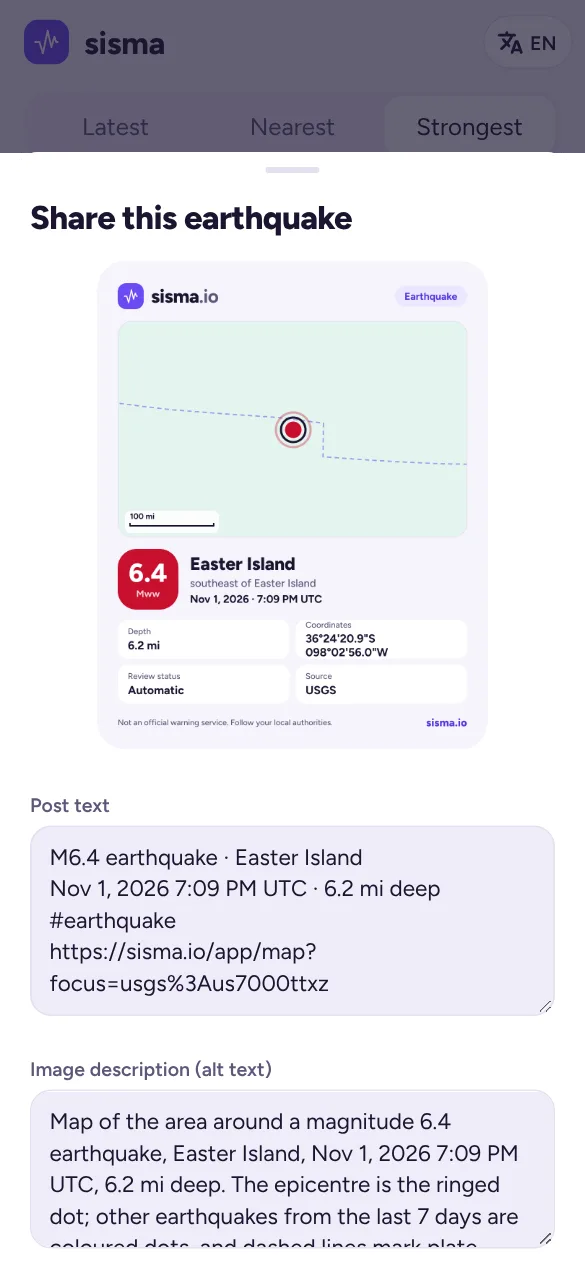
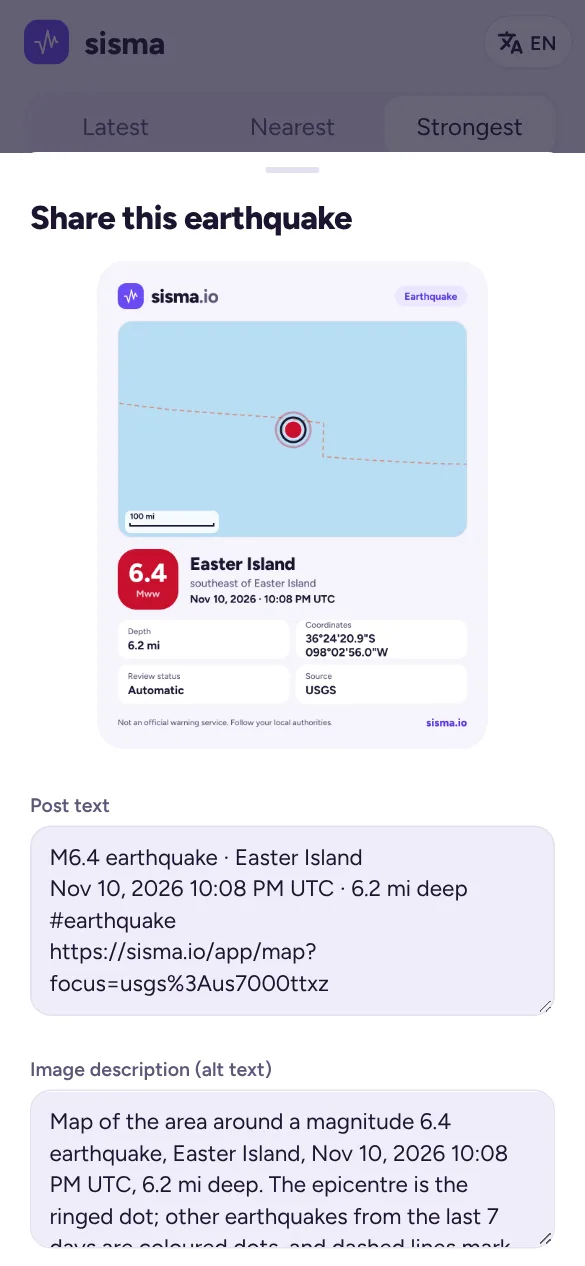
Light theme: cream land, sky-blue sea, orange-red plate lines
The light map colours (globals.css --map-*, lib/theme.ts THEME.light map*)
change to warm cream land, a soft sky-blue sea, warm grey borders and a
blue-grey graticule, with orange-red plate boundaries and a blue glow round
the globe. The 2D map, globe, Ring of Fire widget and share cards (including
Bluesky posts) follow the tokens. Pins, app colours and the dark theme are
unchanged.

Help: light screenshots of the map, globe, region view, filters and share
sheet retaken.

Claude-Session: https://claude.ai/code/session_01VVoEA6g7d5oSRS2St1KTEW

diff --git a/app/src/app/globals.css b/app/src/app/globals.css
@@ -1,5 +1,5 @@
 /* Tokens: see src/lib/theme.ts and design/SismaApp.dc.html */
-:root { --mag-ink-0:#FFFFFF; --mag-ink-1:#FFFFFF; --mag-ink-2:#1B1530; --mag-ink-3:#1B1530; --mag-ink-4:#1B1530; --mag-ink-5:#1B1530; --mag-0:#8E0F8C; --mag-1:#C8102E; --mag-2:#E8411F; --mag-3:#F27A00; --mag-4:#E2A400; --mag-5:#139E73; --brand:#6C4BF4; --on-brand:#FFFFFF; --scroll:rgba(27,21,48,.22); --scroll-hover:rgba(27,21,48,.38); --map-sea:#E3F4EE; --map-land:#FFFFFF; --map-line:#D3CCE8; --map-grat:rgba(108,75,244,.10); --map-plate:#6C4BF4; --map-glow:rgba(108,75,244,.16); --bg:#F6F4FC; --surface:#FFFFFF; --surface2:#EFECF8; --ink:#1B1530; --ink2:#5E587A; --line:#E4E0F0; --violet:#6C4BF4; --on-violet:#FFFFFF; --violet-soft:#ECE7FF; --violet-text:#5A38E0; --mint:#2CCB9A; --mint-soft:#D9F7EC; --mint-text:#0A7558; --warm-soft:#FFE9E1; --warm-text:#B3401F; --scrim:rgba(27,21,48,.42); --shadow:0 8px 28px rgba(27,21,48,.14); }
+:root { --mag-ink-0:#FFFFFF; --mag-ink-1:#FFFFFF; --mag-ink-2:#1B1530; --mag-ink-3:#1B1530; --mag-ink-4:#1B1530; --mag-ink-5:#1B1530; --mag-0:#8E0F8C; --mag-1:#C8102E; --mag-2:#E8411F; --mag-3:#F27A00; --mag-4:#E2A400; --mag-5:#139E73; --brand:#6C4BF4; --on-brand:#FFFFFF; --scroll:rgba(27,21,48,.22); --scroll-hover:rgba(27,21,48,.38); --map-sea:#B9DDF3; --map-land:#F6F3E7; --map-line:#CDC5B2; --map-grat:rgba(58,110,150,.10); --map-plate:#E2572B; --map-glow:rgba(80,150,215,.20); --bg:#F6F4FC; --surface:#FFFFFF; --surface2:#EFECF8; --ink:#1B1530; --ink2:#5E587A; --line:#E4E0F0; --violet:#6C4BF4; --on-violet:#FFFFFF; --violet-soft:#ECE7FF; --violet-text:#5A38E0; --mint:#2CCB9A; --mint-soft:#D9F7EC; --mint-text:#0A7558; --warm-soft:#FFE9E1; --warm-text:#B3401F; --scrim:rgba(27,21,48,.42); --shadow:0 8px 28px rgba(27,21,48,.14); }
 @media (prefers-color-scheme: dark) { :root:not([data-theme="light"]) { --mag-ink-0:#FFFFFF; --mag-ink-1:#1B1530; --mag-ink-2:#1B1530; --mag-ink-3:#1B1530; --mag-ink-4:#1B1530; --mag-ink-5:#1B1530; --mag-0:#B5179E; --mag-1:#EE4266; --mag-2:#FF7A59; --mag-3:#FFA94D; --mag-4:#F7CF4A; --mag-5:#86DCC4; --map-sea:#0C1E36; --map-land:#173A2A; --map-line:#4F7D68; --map-grat:rgba(255,255,255,.06); --map-plate:#BFAFFF; --map-glow:rgba(70,140,230,.24); --bg:#100C1D; --scroll:rgba(242,239,251,.2); --scroll-hover:rgba(242,239,251,.36); --surface:#1A1530; --surface2:#251F3F; --ink:#F2EFFB; --ink2:#A9A2C6; --line:#2E2748; --violet:#8F74FF; --on-violet:#120C26; --violet-soft:#2A2152; --violet-text:#BFAFFF; --mint:#3FE0AE; --mint-soft:#123A30; --mint-text:#6DF0C6; --warm-soft:#3A2019; --warm-text:#FFA088; --scrim:rgba(0,0,0,.55); --shadow:0 8px 28px rgba(0,0,0,.45); } }
 :root[data-theme="dark"] { --mag-ink-0:#FFFFFF; --mag-ink-1:#1B1530; --mag-ink-2:#1B1530; --mag-ink-3:#1B1530; --mag-ink-4:#1B1530; --mag-ink-5:#1B1530; --mag-0:#B5179E; --mag-1:#EE4266; --mag-2:#FF7A59; --mag-3:#FFA94D; --mag-4:#F7CF4A; --mag-5:#86DCC4; --map-sea:#0C1E36; --map-land:#173A2A; --map-line:#4F7D68; --map-grat:rgba(255,255,255,.06); --map-plate:#BFAFFF; --map-glow:rgba(70,140,230,.24); --bg:#100C1D; --scroll:rgba(242,239,251,.2); --scroll-hover:rgba(242,239,251,.36); --surface:#1A1530; --surface2:#251F3F; --ink:#F2EFFB; --ink2:#A9A2C6; --line:#2E2748; --violet:#8F74FF; --on-violet:#120C26; --violet-soft:#2A2152; --violet-text:#BFAFFF; --mint:#3FE0AE; --mint-soft:#123A30; --mint-text:#6DF0C6; --warm-soft:#3A2019; --warm-text:#FFA088; --scrim:rgba(0,0,0,.55); --shadow:0 8px 28px rgba(0,0,0,.45); }
 * { box-sizing: border-box; }

diff --git a/app/src/lib/theme.ts b/app/src/lib/theme.ts
@@ -1,6 +1,7 @@
-// Tokens lifted from design/SismaApp.dc.html. globals.css mirrors these as CSS variables.
+// Tokens lifted from design/SismaApp.dc.html. globals.css mirrors these as CSS variables. Light map colours (map*):
+// warm cream land, soft sky-blue sea, warm grey borders, orange-red plate boundaries.
 export const THEME = {
-  light: { bg: '#F6F4FC', surface: '#FFFFFF', surface2: '#EFECF8', ink: '#1B1530', ink2: '#5E587A', line: '#E4E0F0', violet: '#6C4BF4', onViolet: '#FFFFFF', violetSoft: '#ECE7FF', violetText: '#5A38E0', mint: '#2CCB9A', mintSoft: '#D9F7EC', mintText: '#0A7558', warmSoft: '#FFE9E1', warmText: '#B3401F', mapSea: '#E3F4EE', mapLand: '#FFFFFF', mapLine: '#D3CCE8', mapGrat: 'rgba(108,75,244,.10)', mapPlate: '#6C4BF4', mapGlow: 'rgba(108,75,244,.16)' },
+  light: { bg: '#F6F4FC', surface: '#FFFFFF', surface2: '#EFECF8', ink: '#1B1530', ink2: '#5E587A', line: '#E4E0F0', violet: '#6C4BF4', onViolet: '#FFFFFF', violetSoft: '#ECE7FF', violetText: '#5A38E0', mint: '#2CCB9A', mintSoft: '#D9F7EC', mintText: '#0A7558', warmSoft: '#FFE9E1', warmText: '#B3401F', mapSea: '#B9DDF3', mapLand: '#F6F3E7', mapLine: '#CDC5B2', mapGrat: 'rgba(58,110,150,.10)', mapPlate: '#E2572B', mapGlow: 'rgba(80,150,215,.20)' },
   dark: { bg: '#100C1D', surface: '#1A1530', surface2: '#251F3F', ink: '#F2EFFB', ink2: '#A9A2C6', line: '#2E2748', violet: '#8F74FF', onViolet: '#120C26', violetSoft: '#2A2152', violetText: '#BFAFFF', mint: '#3FE0AE', mintSoft: '#123A30', mintText: '#6DF0C6', warmSoft: '#3A2019', warmText: '#FFA088', mapSea: '#0C1E36', mapLand: '#173A2A', mapLine: '#4F7D68', mapGrat: 'rgba(255,255,255,.06)', mapPlate: '#BFAFFF', mapGlow: 'rgba(70,140,230,.24)' },
 } as const;
 
